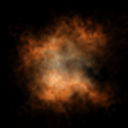
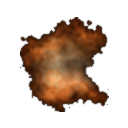
I can't remember the changes.  Maybe I started adding status emitters.

diff --git a/core/static/js/finch-trainer/core.js b/core/static/js/finch-trainer/core.js
@@ -871,7 +871,7 @@ views.Opponent = Backbone.View.extend({
 	},
 	handle_wet_change: function() {
 		var wet = this.model.get('wet');
-		console.log('wet: ' + wet);
+		finch.game.views.battlefield_particle_effects.handle_wet_change(wet);		
 	},
 	handle_frozen_level_change: function() {
 		var frozen_level = this.model.get('frozen_level');
@@ -1232,6 +1232,7 @@ views.BattlefieldParticleEffects = Backbone.View.extend({
 	renderer: null,	
 	emitters_queued_to_cancel: [],
 	emitters_affected_by_shield: [],
+	wet_status_emitters: [],
 	initialize: function() {
 		finch.game.views.global.on('smart_resize', this.center.bind(this));
 		this.center();
@@ -1247,6 +1248,12 @@ views.BattlefieldParticleEffects = Backbone.View.extend({
 		requestAnimationFrame(this.render_loop.bind(this));
 		finch.game.controls.elements.on('cast_start', this.handle_cast_start.bind(this));
 		finch.game.controls.elements.on('cast_stop', this.handle_cast_stop.bind(this));
+		
+		this.wet_status_emitters = this.get_wet_status_emitters();
+		for(i=0;i<this.wet_status_emitters.length;i++){
+			this.proton.addEmitter(this.wet_status_emitters[i]);
+		}
+		
 		this.shield_repulsion_behavior = new Proton.Repulsion({
 			x: this.$el.get(0).width / 2,
 			y: 250,
@@ -1258,6 +1265,14 @@ views.BattlefieldParticleEffects = Backbone.View.extend({
 	},
 	cancel_on_stopcast: function(emitter) {
 		this.emitters_queued_to_cancel.push(emitter);
+	},
+	handle_wet_change: function(wet) {
+		if(wet) {
+			$.each(this.wet_status_emitters, function(idx, emitter) { emitter.emit(); })
+		}else{
+			$.each(this.wet_status_emitters, function(idx, emitter) { emitter.stopEmit(); })
+		}
+		console.log(wet);
 	},
 	handle_wall_change: function(wall_active) {
 		for(i=0;i<this.emitters_affected_by_shield.length;/*same group of emitters*/i++) {
@@ -1525,6 +1540,47 @@ views.BattlefieldParticleEffects = Backbone.View.extend({
 		emitter.emit('once');
 		
 		this.proton.addEmitter(emitter);		
+	},
+	get_fire_status_emitter: function() {
+		var emitter = new Proton.Emitter();
+		emitter.rate = new Proton.Rate(new Proton.Span(60, 100), 3);
+		emitter.addInitialize(new Proton.Mass(1));
+		emitter.addInitialize(new Proton.ImageTarget('/static/images/finch/droplet-particle.png'));
+		emitter.addInitialize(new Proton.Position(new Proton.CircleZone(this.$el.get(0).width / 2 + 20, 150, 1)));		
+		emitter.addInitialize(new Proton.Life(.5, 1));
+		emitter.addInitialize(new Proton.V(new Proton.Span(1, 1.5), new Proton.Span(80, 30, true), 'polar'));		
+		emitter.addBehaviour(new Proton.Color('#005dac', '#005dac'));		
+		emitter.addBehaviour(new Proton.Scale(.5, 0));
+		emitter.addBehaviour(new Proton.Gravity(4));		
+		
+		return emitter;
+	},
+	get_wet_status_emitters: function() {		
+		var right_emitter = new Proton.Emitter();
+		right_emitter.rate = new Proton.Rate(new Proton.Span(5, 6), 1);
+		right_emitter.addInitialize(new Proton.Mass(1));
+		right_emitter.addInitialize(new Proton.ImageTarget('/static/images/finch/droplet-particle.png'));
+		right_emitter.addInitialize(new Proton.Position(new Proton.CircleZone(this.$el.get(0).width / 2 + 20, 150, 1)));		
+		right_emitter.addInitialize(new Proton.Life(.5, 1));
+		right_emitter.addInitialize(new Proton.V(new Proton.Span(1, 1.5), new Proton.Span(80, 30, true), 'polar'));		
+		right_emitter.addBehaviour(new Proton.Color('#005dac', '#005dac'));		
+		right_emitter.addBehaviour(new Proton.Scale(.5, 0));
+		right_emitter.addBehaviour(new Proton.Gravity(4));
+		right_emitter.addBehaviour(new Proton.Rotate());
+		
+		var left_emitter = new Proton.Emitter();
+		left_emitter.rate = new Proton.Rate(new Proton.Span(5, 6), 1);
+		left_emitter.addInitialize(new Proton.Mass(1));
+		left_emitter.addInitialize(new Proton.ImageTarget('/static/images/finch/droplet-particle.png'));
+		left_emitter.addInitialize(new Proton.Position(new Proton.CircleZone(this.$el.get(0).width / 2 - 20, 150, 1)));		
+		left_emitter.addInitialize(new Proton.Life(.5, 1));
+		left_emitter.addInitialize(new Proton.V(new Proton.Span(1, 1.5), new Proton.Span(280, 30, true), 'polar'));		
+		left_emitter.addBehaviour(new Proton.Color('#005dac', '#005dac'));		
+		left_emitter.addBehaviour(new Proton.Scale(.5, 0));
+		left_emitter.addBehaviour(new Proton.Gravity(4));
+		left_emitter.addBehaviour(new Proton.Rotate());
+		
+		return [right_emitter, left_emitter];
 	},
 	get_beam_endpoint_emitter: function(type) {		
 		var emitter = new Proton.Emitter();

diff --git a/core/static/js/webgl/particle-effect-builder.js b/core/static/js/webgl/particle-effect-builder.js
@@ -76,7 +76,7 @@ var models = {
 			});
 			
 			this.set_count(min=5, max=10, interval=.1);
-			this.set_image_target('/static/images/finch/particle.png');
+			this.set_image_target('/static/images/finch/droplet-particle.png');
 			this.set_radius(min=2, max=5);
 			this.set_life(min=4, max=5);
 			this.set_velocity(rpan_min=.5, rpan_max=1.5, thapan_initial=0, thapan_drift=360);
@@ -85,6 +85,7 @@ var models = {
 			this.add_behavior('scale', {initial: .5, end: .1});
 			this.add_behavior('alpha', {initial: 1, end: 0});
 			this.add_behavior('gravity', {gravity: 1});
+			this.add_behavior('rotation');
 		},
 		set_count: function(min, max, interval) {
 			this.set('count', { min: min, max: max, interval: interval });
@@ -109,7 +110,7 @@ var models = {
 			});
 		},
 		add_behavior: function(type, options) {
-			this.get('behaviors')[type] = options;
+			this.get('behaviors')[type] = options || {};
 		},
 		get_behavior: function(type) {
 			return this.get('behaviors')[type];
@@ -127,6 +128,8 @@ var models = {
 			emitter.removeInitializers();
 			emitter.removeAllBehaviours();
 			emitter.removeAllParticles();
+			
+			emitter.addInitialize(new Proton.Mass(1));
 			
 			var count = this.get('count');
 			emitter.rate = new Proton.Rate(new Proton.Span(count.min, count.max), count.interval);
@@ -159,6 +162,9 @@ var models = {
 						break;
 					case 'gravity':
 						emitter.addBehaviour(new Proton.Gravity(value.gravity, value.life, value.initial));
+						break;
+					case 'rotation':
+						emitter.addBehaviour(new Proton.Rotate());
 						break;
 				}
 			}
@@ -285,6 +291,10 @@ var views = {
 				});
 			}
 			
+			if($('#rotation-behavior .behavior-toggle').is(':checked')) {
+				this.model.add_behavior('rotation');
+			}
+			
 			this.model.update_emitter();
 		},
 		set_model: function(model) {
@@ -340,6 +350,11 @@ var views = {
 				$('#gravity-life', this.$el).val(gravity_behavior.life);
 				$('#gravity-easing', this.$el).val(gravity_behavior.easing);
 			}
+			
+			var rotation_behavior = this.model.get_behavior('rotation');
+			if(rotation_behavior) {
+				$('#rotation-behavior .behavior-toggle').prop('checked', true);
+			}
 		}		
 	}),	
 };
@@ -376,7 +391,7 @@ var p = {
 $(function() {
 	var initial_particle = new models.ParticleSettings();
 	particle_tester.views.particle_settings.set_model(initial_particle);
-	initial_particle.update_emitter();
+	initial_particle.update_emitter();	
 });
 
 

diff --git a/core/static/js/proton-patches.js b/core/static/js/proton-patches.js
@@ -1,0 +1,16 @@
+;Proton.WebGLRender.prototype.updateMatrix = function(particle) {	
+	var moveOriginMatrix = Proton.WebGLUtil.makeTranslation(-particle.transform.textureWidth / 2, -particle.transform.textureHeight / 2);
+    var translationMatrix = Proton.WebGLUtil.makeTranslation(particle.p.x, particle.p.y);
+    var angel = (180-particle.rotation) * (Math.PI / 180);
+    var rotationMatrix = Proton.WebGLUtil.makeRotation(angel);
+    var scale = particle.scale * particle.transform.oldScale;
+    var scaleMatrix = Proton.WebGLUtil.makeScale(scale, scale);
+
+    var matrix = Proton.WebGLUtil.matrixMultiply(moveOriginMatrix, scaleMatrix);
+    matrix = Proton.WebGLUtil.matrixMultiply(matrix, rotationMatrix);
+    matrix = Proton.WebGLUtil.matrixMultiply(matrix, translationMatrix);
+
+    Proton.Mat3.inverse(matrix, particle.transform.imat);
+    matrix[2] = particle.alpha;
+    this.mstack.push(matrix);
+};

diff --git a/core/templates/misc/particle-effect-builder.html b/core/templates/misc/particle-effect-builder.html
@@ -88,6 +88,11 @@
 			</div>
 		</div>
 		
+		<div id='rotation-behavior' class='option behavior'>
+			<input type='checkbox' class='behavior-toggle' /> 
+			<h3>Rotation</h3>			
+		</div>
+		
 		<input type='button' id='save-particle-settings' value='Save Settings' />
 	</div>
 	<canvas id='particle-host'></canvas>

diff --git a/core/profiles/base_settings.py b/core/profiles/base_settings.py
@@ -211,6 +211,7 @@ PIPELINE_JS = {
             'js/backbone.min.js',
             'js/finch-trainer/core.js',
             'js/proton-1.0.0.min.js',
+            'js/proton-patches.js',
             'js/google-analytics.js'
         ),
         'output_filename': 'js/finch-trainer/core.min.js',
@@ -222,6 +223,7 @@ PIPELINE_JS = {
             'js/underscore.min.js',
             'js/backbone.min.js',            
             'js/proton-1.0.0.min.js',
+            'js/proton-patches.js',
             'js/webgl/particle-effect-builder.js',            
         ),
         'output_filename': 'js/webgl/particle-effect-builder.min.js',
